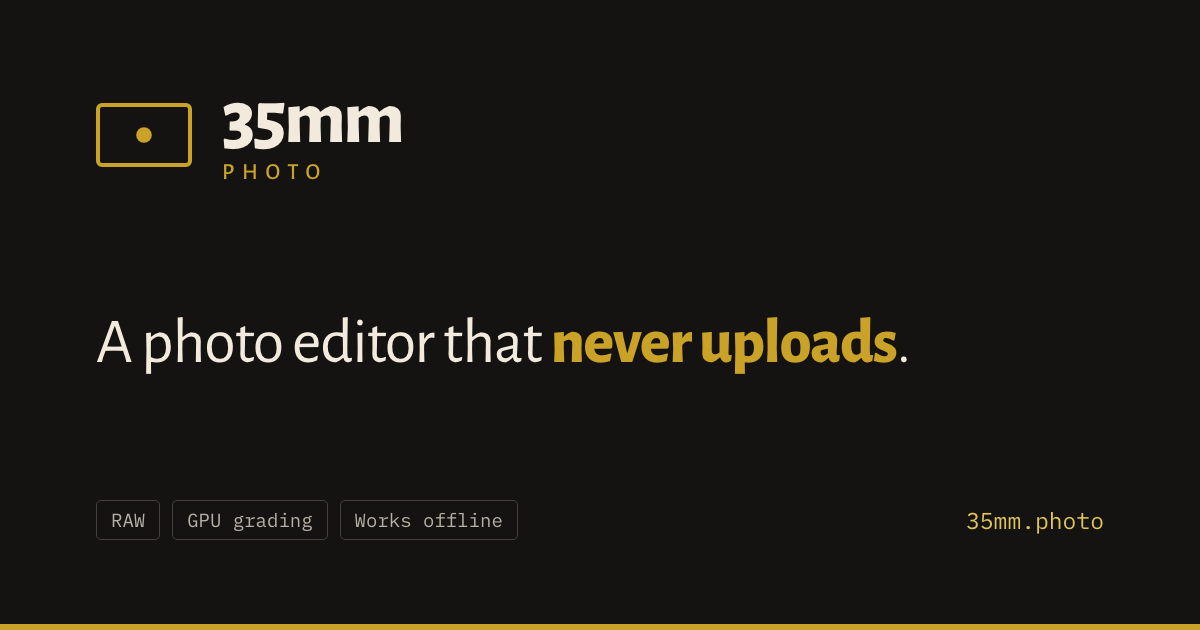
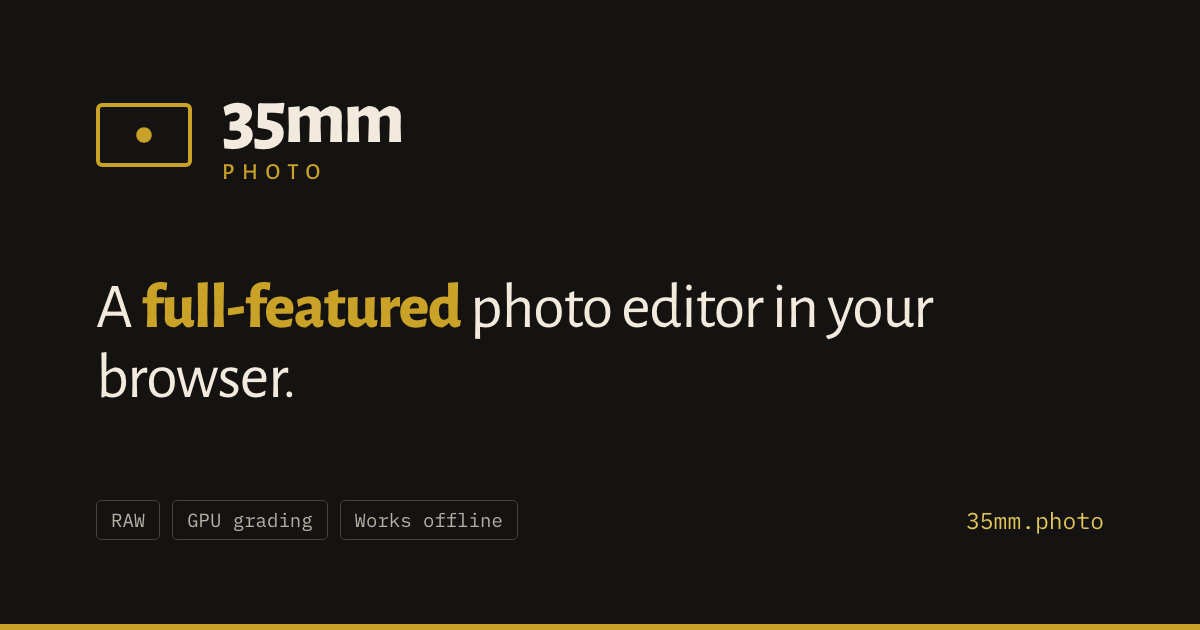
Market 35mm on what it does, not on what it doesn't send
The pitch everywhere outward-facing was "a photo editor that never
uploads" — a promise about the backend rather than a reason to open the
thing. Lead with the editor instead: raw decode, GPU colour grading,
curves, an HSL mixer, crop and export, in a browser tab.

Covers the title, meta description, Open Graph and Twitter cards, the
JSON-LD blob, the web manifest, package.json and the README opener.
og.png is re-rendered from brand/og.html with the headless-Chrome command
in brand/README.md; it keeps its filename, so re-shares will serve the
cached card until the URL is run through each platform's validator.

In-product copy follows the same line: the top bar reads "Works offline ·
nothing to install" and, with a photo open, "Edits saved locally ·
non-destructive"; the dropzone names the pipeline. That element is no
longer a privacy notice, so .topbar__privacy becomes .topbar__status.

Changed region(s): [[0.0617, 0.4524, 0.7708, 0.6333]]

diff --git a/index.html b/index.html
@@ -4,10 +4,10 @@
     <meta charset="utf-8" />
     <meta name="viewport" content="width=device-width, initial-scale=1" />
 
-    <title>35mm — a photo editor that never uploads</title>
+    <title>35mm — a full-featured photo editor in your browser</title>
     <meta
       name="description"
-      content="A local, no-upload photo editor. Raw decode, grading and export all happen inside the browser tab — no backend, no accounts, and your photos are never uploaded."
+      content="A full-featured photo editor in your browser. Raw decode, GPU colour grading, curves, an HSL mixer, crop and export — all inside the browser tab, with nothing to install and no account to make."
     />
     <link rel="canonical" href="https://35mm.photo/" />
     <meta name="robots" content="index, follow, max-image-preview:large" />
@@ -30,10 +30,10 @@
     <meta property="og:type" content="website" />
     <meta property="og:site_name" content="35mm" />
     <meta property="og:locale" content="en_US" />
-    <meta property="og:title" content="35mm — a photo editor that never uploads" />
+    <meta property="og:title" content="35mm — a full-featured photo editor in your browser" />
     <meta
       property="og:description"
-      content="Raw decode, grading and export, all inside the browser tab. No backend, no accounts, and your photos are never uploaded."
+      content="Raw decode, GPU colour grading, curves, an HSL mixer, crop and export — all inside the browser tab. Nothing to install, no account to make."
     />
     <meta property="og:url" content="https://35mm.photo/" />
     <meta property="og:image" content="https://35mm.photo/og.png" />
@@ -42,21 +42,21 @@
     <meta property="og:image:height" content="630" />
     <meta
       property="og:image:alt"
-      content="The 35mm.photo lockup on a dark ground, above the line: a photo editor that never uploads."
+      content="The 35mm.photo lockup on a dark ground, above the line: a full-featured photo editor in your browser."
     />
 
     <!-- X/Twitter falls back to og:* for most of these, but Slack, Discord and
          iMessage read the explicit ones. No site/creator handle to claim. -->
     <meta name="twitter:card" content="summary_large_image" />
-    <meta name="twitter:title" content="35mm — a photo editor that never uploads" />
+    <meta name="twitter:title" content="35mm — a full-featured photo editor in your browser" />
     <meta
       name="twitter:description"
-      content="Raw decode, grading and export, all inside the browser tab. No backend, no accounts, and your photos are never uploaded."
+      content="Raw decode, GPU colour grading, curves, an HSL mixer, crop and export — all inside the browser tab. Nothing to install, no account to make."
     />
     <meta name="twitter:image" content="https://35mm.photo/og.png" />
     <meta
       name="twitter:image:alt"
-      content="The 35mm.photo lockup on a dark ground, above the line: a photo editor that never uploads."
+      content="The 35mm.photo lockup on a dark ground, above the line: a full-featured photo editor in your browser."
     />
 
     <link rel="preconnect" href="https://fonts.googleapis.com" />
@@ -73,7 +73,7 @@
         "name": "35mm",
         "alternateName": "35mm.photo",
         "url": "https://35mm.photo/",
-        "description": "A local, no-upload photo editor. Raw decode, grading and export all happen inside the browser tab \u2014 no backend, no accounts, and your photos are never uploaded.",
+        "description": "A full-featured photo editor in your browser. Raw decode, GPU colour grading, curves, an HSL mixer, crop and export \u2014 all inside the browser tab, with nothing to install and no account to make.",
         "applicationCategory": "MultimediaApplication",
         "operatingSystem": "Any, in a modern web browser",
         "browserRequirements": "Requires JavaScript and WebGL2",

diff --git a/src/app/EmptyState.tsx b/src/app/EmptyState.tsx
@@ -72,7 +72,7 @@ export function EmptyState({ dragging }: { dragging: boolean }) {
         </div>
         <div className="dropzone__copy">
           <h1>Drop a photo to start</h1>
-          <p>Everything happens in this browser tab. No account, no upload, no waiting.</p>
+          <p>Raw decode, GPU colour grading and export, right in this browser tab. Nothing to install.</p>
         </div>
         <div className="dropzone__actions">
           <button className="button button--accent button--lg" onClick={() => void pickFiles().then(openFiles)}>

diff --git a/src/app/TopBar.tsx b/src/app/TopBar.tsx
@@ -48,9 +48,9 @@ export function TopBar() {
 
       {loading && <span className="topbar__loading">{loadingLabel || 'Working'}…</span>}
 
-      <div className="topbar__privacy">
+      <div className="topbar__status">
         <span className="dot" />
-        <span>{meta ? 'Saved locally · nothing uploaded' : 'Works offline · your photos never leave this computer'}</span>
+        <span>{meta ? 'Edits saved locally · non-destructive' : 'Works offline · nothing to install'}</span>
       </div>
 
       {meta && (

diff --git a/src/styles/app.css b/src/styles/app.css
@@ -76,7 +76,7 @@
 .topbar__spacer { flex: 1; }
 .topbar__loading { font-size: 14px; color: var(--link); }
 
-.topbar__privacy {
+.topbar__status {
   display: flex;
   align-items: center;
   gap: 8px;
@@ -1028,7 +1028,7 @@
     row-gap: 12px;
     padding: 12px var(--frame-h);
   }
-  .topbar__privacy { display: none; }
+  .topbar__status { display: none; }
   .toolbar { height: auto; flex-wrap: wrap; padding: 10px 12px; gap: 10px; }
   .toolbar__tools { flex-wrap: wrap; }
   .drawer { max-height: 56vh; }

diff --git a/brand/og.html b/brand/og.html
@@ -44,7 +44,7 @@
         <span class="tld">photo</span>
       </span>
     </div>
-    <h1>A photo editor that <b>never uploads</b>.</h1>
+    <h1>A <b>full-featured</b> photo editor in your browser.</h1>
     <div class="foot">
       <div class="chips">
         <span class="chip">RAW</span><span class="chip">GPU grading</span><span class="chip">Works offline</span>

diff --git a/README.md b/README.md
@@ -1,8 +1,8 @@
 # 35mm
 
-**[35mm.photo](https://35mm.photo)** — a local, no-upload photo editor. Everything
-— decode, grading, export — happens in the browser tab. No backend, no accounts,
-and your photos are never uploaded.
+**[35mm.photo](https://35mm.photo)** — a full-featured photo editor in your
+browser. Raw decode, GPU colour grading, curves, an HSL mixer, crop and export
+all happen in the browser tab: nothing to install, no account to make.
 
 The published site loads Google Analytics; see [Analytics](#analytics). Nothing
 about a photo is sent anywhere, and a local build has no analytics at all.
